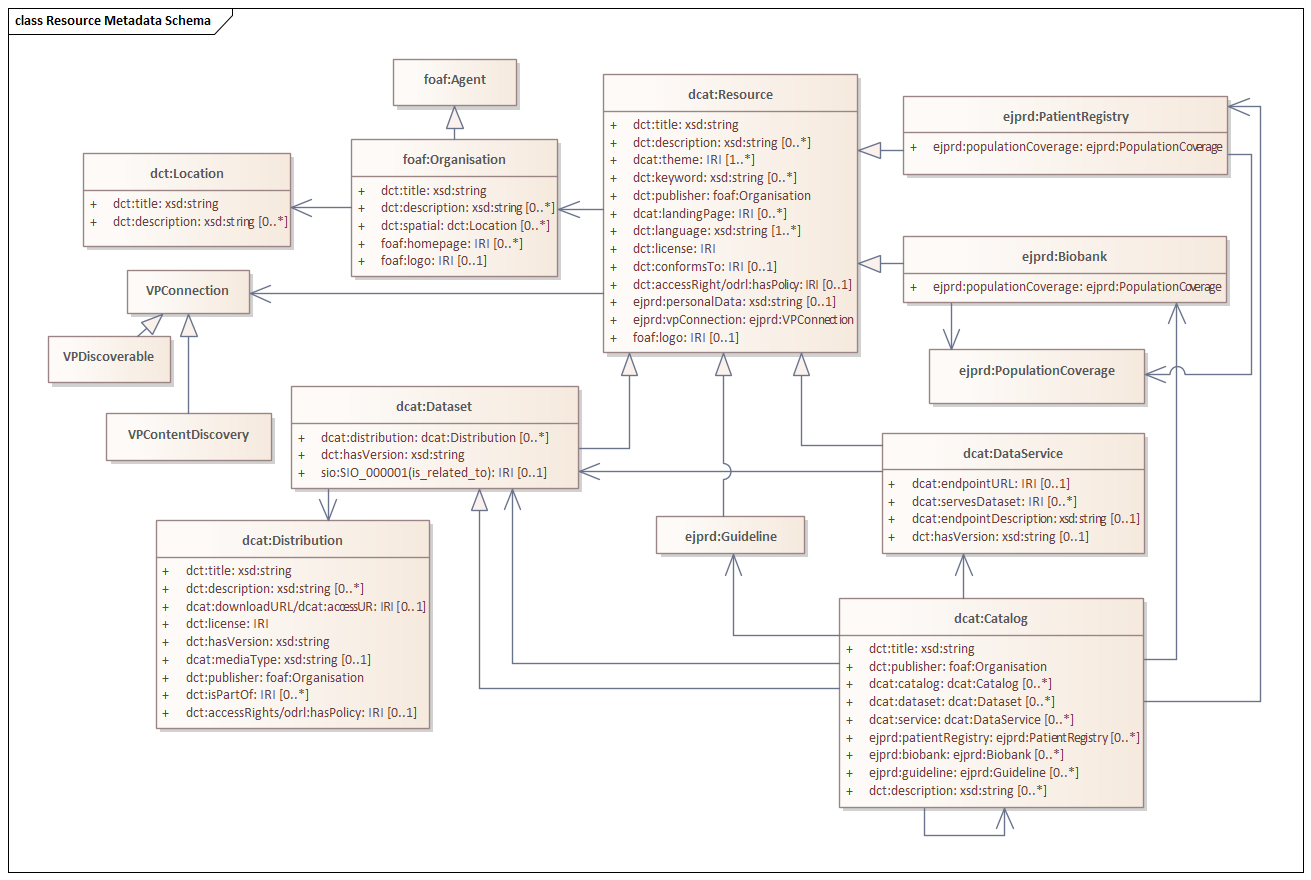
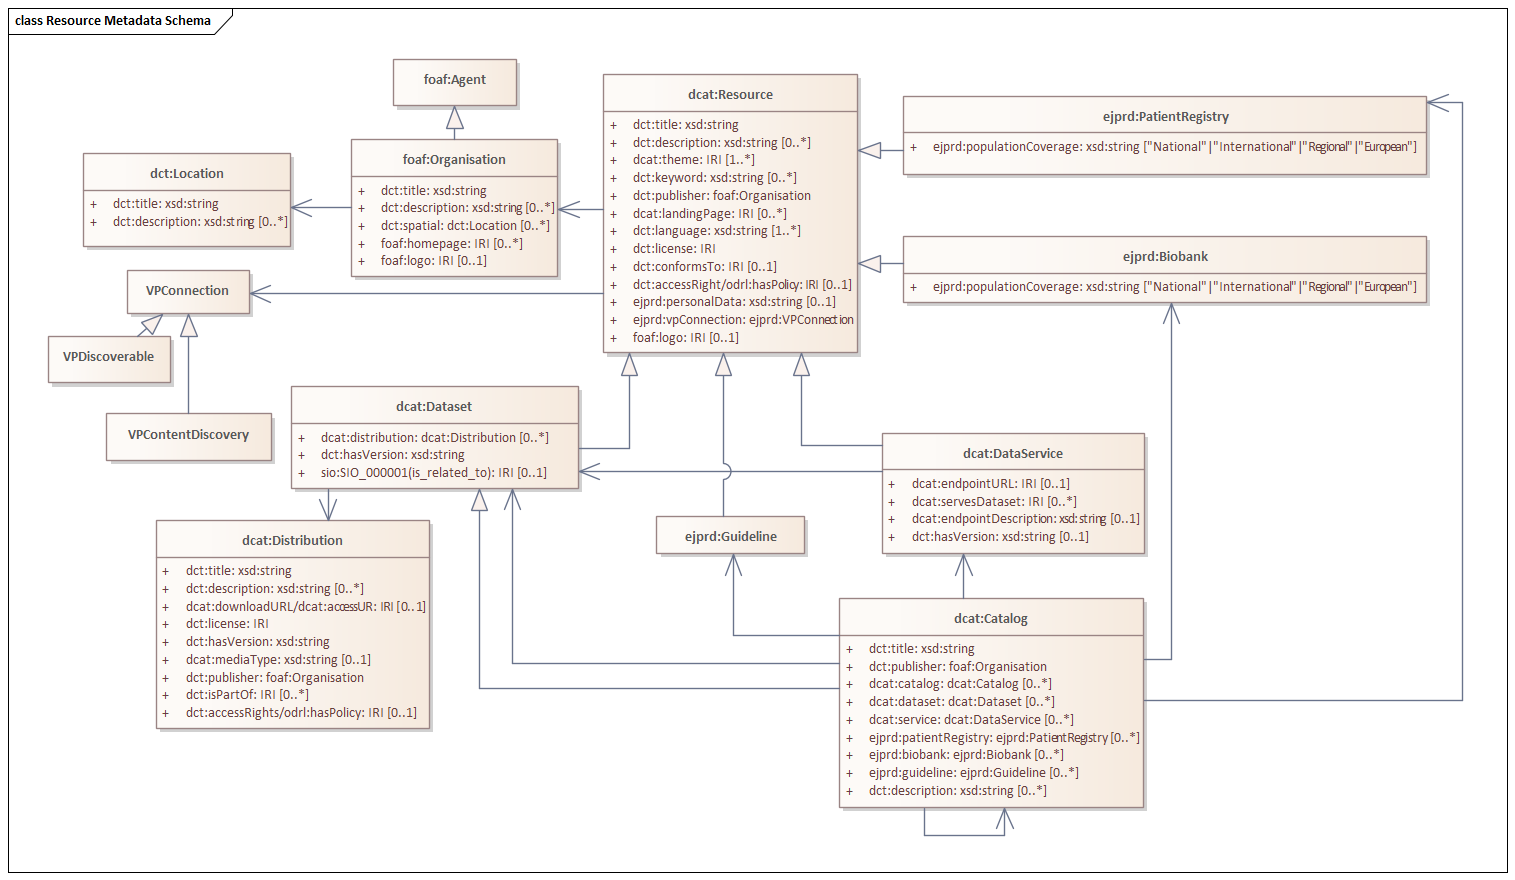
populationCoverage updated #49

Changed region(s): [[0.0305, 0.0614, 0.9764, 0.9511], [0.0, 0.0, 0.1831, 0.0307], [0.7018, 0.3682, 0.7323, 0.3989]]

diff --git a/template/BiobankOrPatientRegistry.md b/template/BiobankOrPatientRegistry.md
@@ -18,13 +18,10 @@ A description of this biobank or patient registry.
 > **Note** This field is `optional`
 
 ## PopulationCoverage
-Gives an indication of the part of the population covered by this biobank/patient registry. This field is optional. When 
-supplied it must consist of one or more of the following values: National, International, Regional. When more than one
-value is applicable, it should be separated by commas.
+Gives an indication of the part of the population covered by this biobank/patient registry. This field must have 1 of 
+the following values: "National", "International", "Regional" or "European". 
+> **Warning** This field is `required`
 
-*Example:*
-National|International
-> **Note** This field is `optional`
 
 ## Theme
 It consists of 1 or more IRIs separated by commas. When set, it specifies relevant ontology concepts
@@ -92,24 +89,3 @@ this URL provides access information.
 
 > **Recommendation** Specifying a value for this field is `recommended`
 
-# Example
-<table>
-  <tr>
-   <td><strong>Title</strong></td>
-   <td><strong>Description</strong></td>
-   <td><strong>PopulationCoverage</strong></td>
-   <td><strong>Theme</strong></td>
-   <td><strong>Publisher</strong></td>
-   <td><strong>Webpages</strong></td>
-   <td><strong>Type</strong></td>
-  </tr>
-  <tr>
-   <td>ECEMC: Registry of the Spanish Collaborative Study of Congenital Malformations</td>
-   <td>The ECEMC investigates the causes of congenital defects and malformations that are observed in newborn children.</td>
-   <td>National</td>
-   <td>http://www.orpha.net/ORDO/Orphanet_558|http://purl.obolibrary.org/obo/OMIABIS_0001002</td>
-   <td>Unidad de Investigación sobre Anomalías Congénitas</td>
-   <td>http://www.fundacion1000.es/ecemc</td>
-   <td>ejp:PatientRegistry</td>
-  </tr>
-</table>
